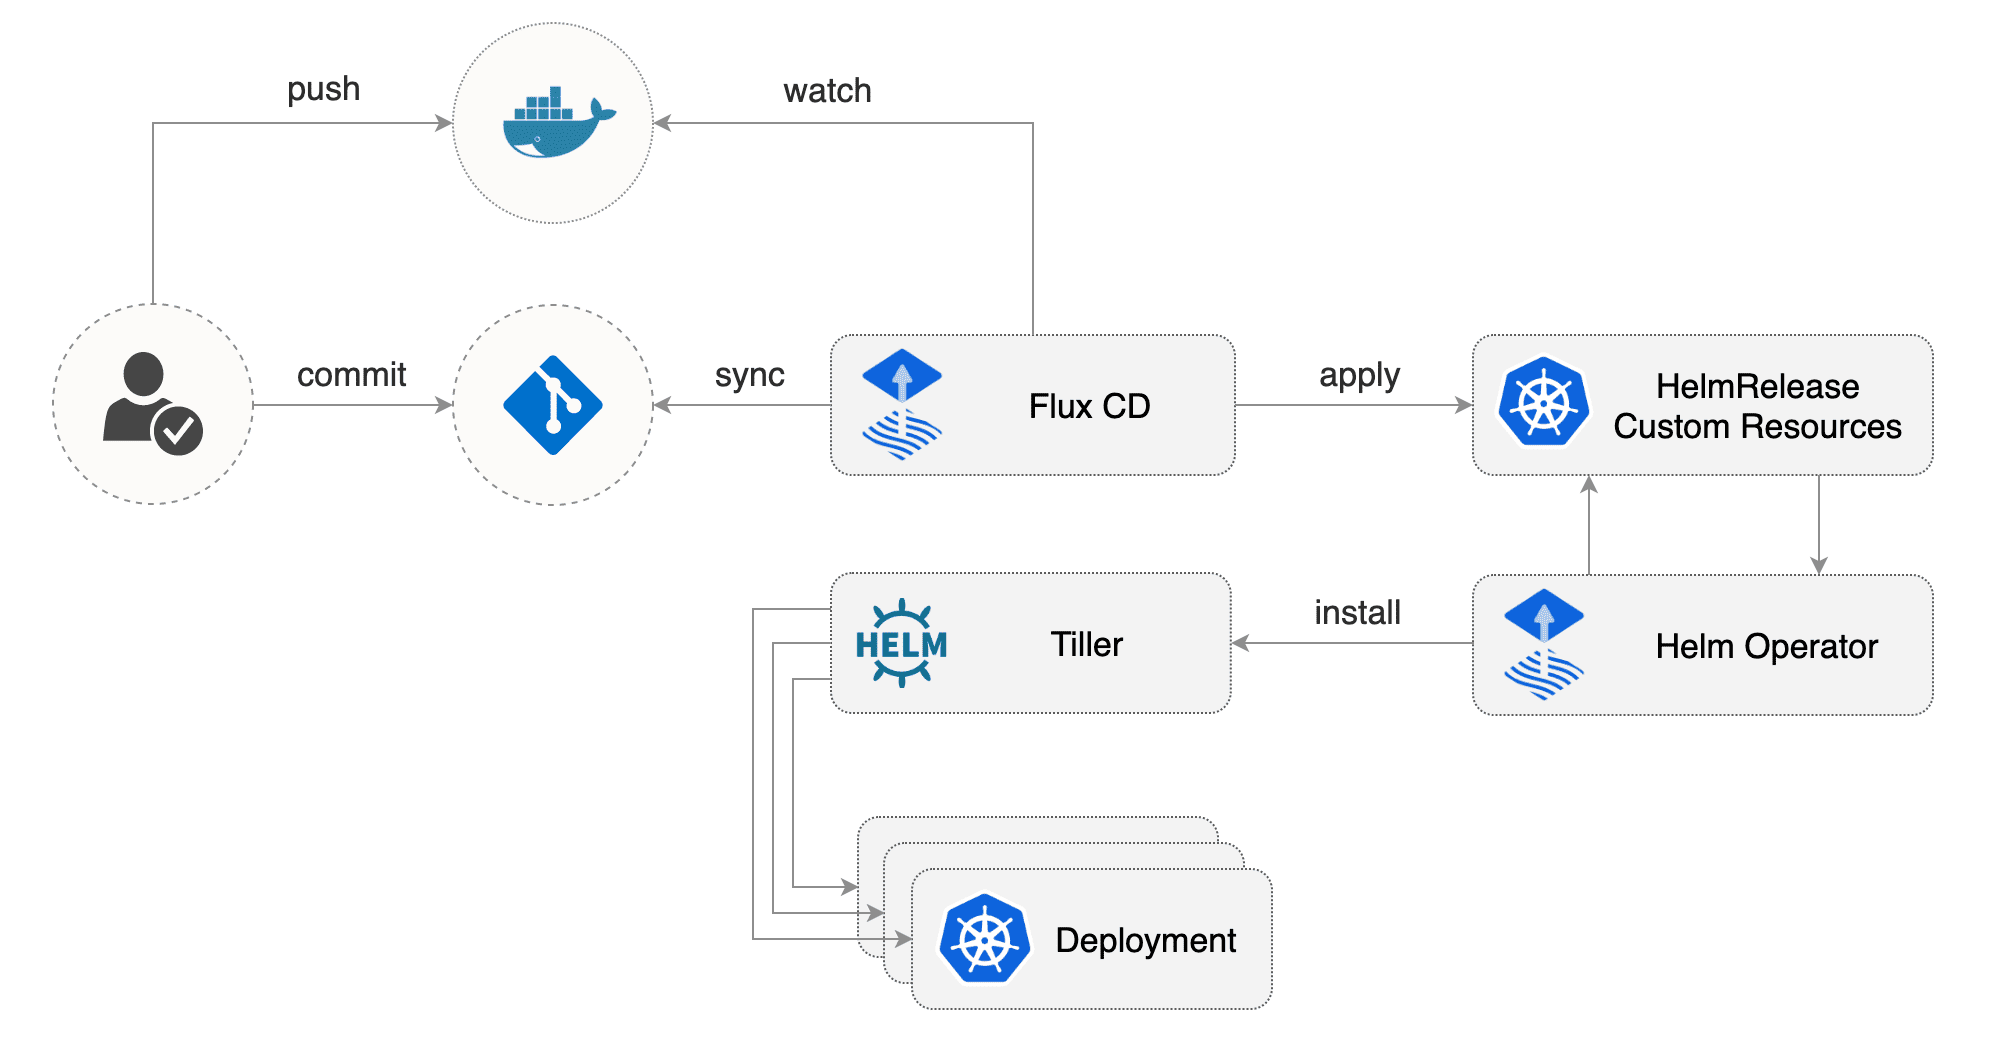
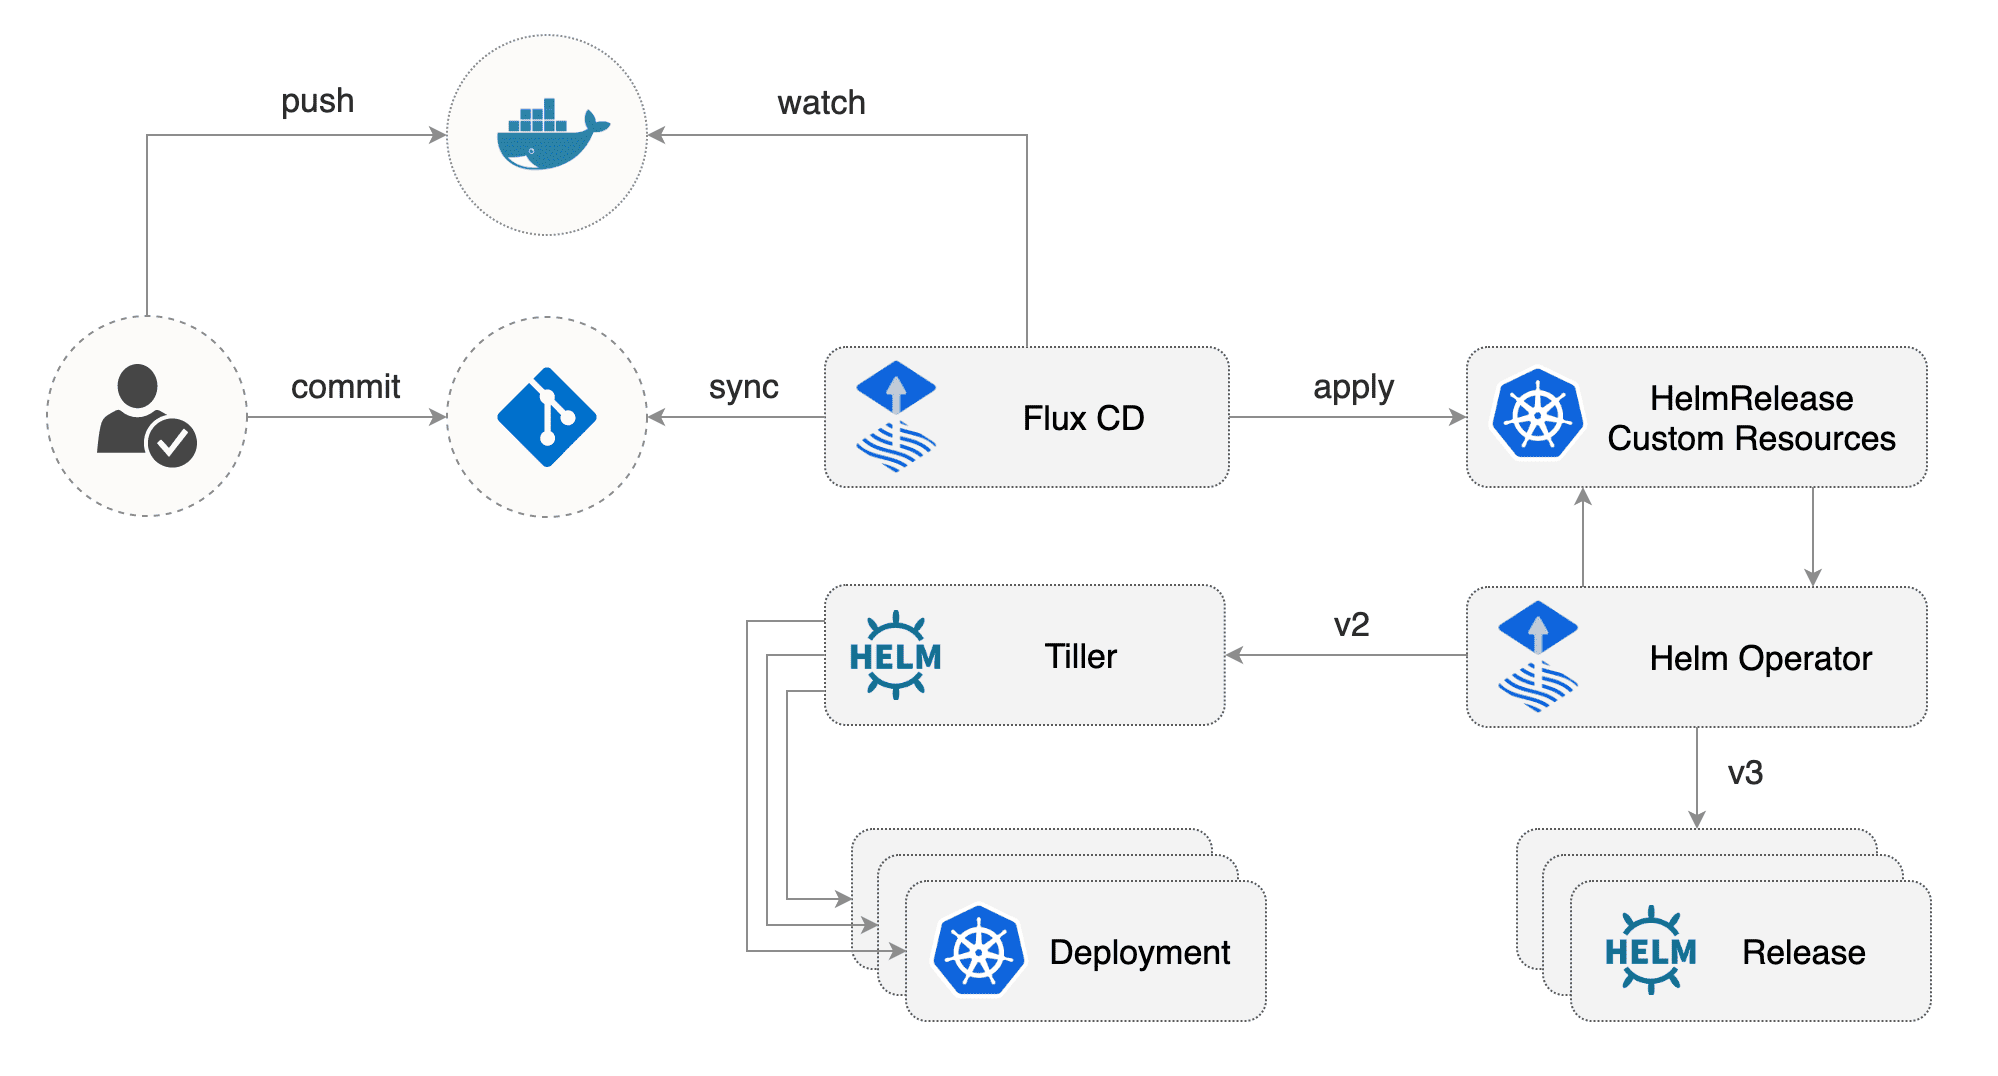
Update docs for Helm v3 and helm.fluxcd.io/v1

diff --git a/README.md b/README.md
@@ -28,64 +28,70 @@ I will be using GitHub to host the config repo, Docker Hub as the container regi
 
 ![gitops](https://github.com/fluxcd/helm-operator-get-started/blob/master/diagrams/flux-helm-operator-registry.png)
 
-### Install Helm and Tiller
+### Prerequisites
 
-If you don't have Helm CLI installed, on macOS you can use `brew install kubernetes-helm`.
+You'll need a Kubernetes cluster v1.11 or newer with load balancer support, a GitHub account, git and kubectl installed locally.
 
-Create a service account and a cluster role binding for Tiller:
+Install Helm v3 and fluxctl for macOS with Homebrew:
 
-```bash
-kubectl -n kube-system create sa tiller
-
-kubectl create clusterrolebinding tiller-cluster-rule \
-    --clusterrole=cluster-admin \
-    --serviceaccount=kube-system:tiller
+```sh
+brew install helm fluxctl
 ```
 
-Note that on GKE you need to create an admin cluster user for yourself:
+On Windows you can use Chocolatey:
 
-```bash
-kubectl create clusterrolebinding "cluster-admin-$(whoami)" \
-    --clusterrole=cluster-admin \
-    --user="$(gcloud config get-value core/account)"
-```
-
-Deploy Tiller in kube-system namespace:
-
-```bash
-helm init --skip-refresh --upgrade --service-account tiller
+```sh
+choco install kubernetes-helm fluxctl
 ```
 
 ### Install Flux
 
 The first step in automating Helm releases with [Flux](https://github.com/fluxcd/flux) is to create a Git repository with your charts source code.
-You can fork this repository and use it as a template for your cluster config.
+
+On GitHub, fork this repository and clone it locally
+(replace `fluxcd` with your GitHub username): 
+
+```sh
+git clone https://github.com/fluxcd/helm-operator-get-started
+cd helm-operator-get-started
+```
 
 *If you fork, update the release definitions with your Docker Hub repository and GitHub username located in
 \releases\(dev/stg/prod)\podinfo.yaml in your master branch before proceeding.
 
-Apply the Helm Release CRD:
-
-```bash
-kubectl apply -f https://raw.githubusercontent.com/fluxcd/flux/helm-0.10.1/deploy-helm/flux-helm-release-crd.yaml
-```
-
-Add the Flux chart repo:
+Add FluxCD repository to Helm repos:
 
 ```bash
 helm repo add fluxcd https://charts.fluxcd.io
 ```
 
-Install Flux and its Helm Operator by specifying your fork URL
-(replace `fluxcd` with your GitHub username):
+Create the `fluxcd` namespace:
+
+```sh
+kubectl create ns fluxcd
+```
+
+Install Flux by specifying your fork URL (replace `fluxcd` with your GitHub username): 
 
 ```bash
-helm install --name flux \
---set rbac.create=true \
---set helmOperator.create=true \
---set git.url=git@github.com:fluxcd/helm-operator-get-started \
---namespace flux \
-fluxcd/flux
+helm upgrade -i flux fluxcd/flux --wait \
+--namespace fluxcd \
+--set git.url=git@github.com:fluxcd/helm-operator-get-started
+```
+
+Install the `HelmRelease` Kubernetes custom resource definition:
+
+```sh
+kubectl apply -f https://raw.githubusercontent.com/fluxcd/helm-operator/master/deploy/flux-helm-release-crd.yaml
+```
+
+Install Flux Helm Operator with ***Helm v3*** support:
+
+```bash
+helm upgrade -i helm-operator fluxcd/helm-operator --wait \
+--namespace fluxcd \
+--set git.ssh.secretName=flux-git-deploy \
+--set helm.versions=v3
 ```
 
 The Flux Helm operator provides an extension to Flux that automates Helm Chart releases for it.
@@ -93,13 +99,12 @@ A Chart release is described through a Kubernetes custom resource named HelmRele
 The Flux daemon synchronizes these resources from git to the cluster,
 and the Flux Helm operator makes sure Helm charts are released as specified in the resources.
 
-Note that Flux Helm Operator works with Kubernetes 1.9 or newer.
+Note that Flux Helm Operator works with Kubernetes 1.11 or newer.
 
-At startup Flux generates a SSH key and logs the public key.
-Find the SSH public key with:
+At startup, Flux generates a SSH key and logs the public key. Find the public key with:
 
 ```bash
-kubectl -n flux logs deployment/flux | grep identity.pub | cut -d '"' -f2
+fluxctl identity --k8s-fwd-ns fluxcd
 ```
 
 In order to sync your cluster state with Git you need to copy the public key and
@@ -174,14 +179,14 @@ Using this chart I want to create a release in the `dev` namespace with the imag
 Instead of editing the `values.yaml` from the chart source, I create a `HelmRelease` definition (located in /releases/dev/podinfo.yaml):
 
 ```yaml
-apiVersion: flux.weave.works/v1beta1
+apiVersion: helm.fluxcd.io/v1
 kind: HelmRelease
 metadata:
   name: podinfo-dev
   namespace: dev
   annotations:
-    flux.weave.works/automated: "true"
-    flux.weave.works/tag.chart-image: glob:dev-*
+    fluxcd.io/automated: "true"
+    filter.fluxcd.io/chart-image: glob:dev-*
 spec:
   releaseName: podinfo-dev
   chart:
@@ -203,7 +208,7 @@ Flux Helm release fields:
 
 The options specified in the HelmRelease `spec.values` will override the ones in `values.yaml` from the chart source.
 
-With the `flux.weave.works` annotations I instruct Flux to automate this release.
+With the `fluxcd.io/automated` annotations I instruct Flux to automate this release.
 When a new tag with the prefix `dev` is pushed to Docker Hub, Flux will update the image field in the yaml file,
 will commit and push the change to Git and finally will apply the change on the cluster.
 
@@ -213,11 +218,11 @@ When the `podinfo-dev` HelmRelease object changes inside the cluster,
 Kubernetes API will notify the Flux Helm Operator and the operator will perform a Helm release upgrade.
 
 ```
-$ helm history podinfo-dev
+$ helm -n dev history podinfo-dev
 
-REVISION	UPDATED                 	STATUS    	CHART        	DESCRIPTION
-1       	Fri Jul 20 16:51:52 2018	SUPERSEDED	podinfo-0.2.0	Install complete
-2       	Fri Jul 20 22:18:46 2018	DEPLOYED  	podinfo-0.2.0	Upgrade complete
+REVISION	STATUS    	CHART        	DESCRIPTION
+1       	superseded	podinfo-0.2.0	Install complete
+2       	deployed  	podinfo-0.2.0	Upgrade complete
 ```
 
 The Flux Helm Operator reacts to changes in the HelmRelease collection but will also detect changes in the charts source files.
@@ -226,12 +231,12 @@ If I make a change to the podinfo chart, the operator will pick that up and run 
 ![gitops-chart-change](https://github.com/stefanprodan/openfaas-flux/blob/master/docs/screens/flux-helm-chart-update.png)
 
 ```
-$ helm history podinfo-dev
+$ helm -n dev history podinfo-dev
 
-REVISION	UPDATED                 	STATUS    	CHART        	DESCRIPTION
-1       	Fri Jul 20 16:51:52 2018	SUPERSEDED	podinfo-0.2.0	Install complete
-2       	Fri Jul 20 22:18:46 2018	SUPERSEDED	podinfo-0.2.0	Upgrade complete
-3       	Fri Jul 20 22:39:39 2018	DEPLOYED  	podinfo-0.2.1	Upgrade complete
+REVISION	STATUS    	CHART        	DESCRIPTION
+1       	superseded	podinfo-0.2.0	Install complete
+2       	superseded	podinfo-0.2.0	Upgrade complete
+3       	deployed  	podinfo-0.2.1	Upgrade complete
 ```
 
 Now let's assume that I want to promote the code from the `dev` branch into a more stable environment for others to test it.
@@ -250,14 +255,14 @@ Assuming the staging environment has some sort of automated load testing in plac
 I want to have a different configuration than dev:
 
 ```yaml
-apiVersion: flux.weave.works/v1beta1
+apiVersion: helm.fluxcd.io/v1
 kind: HelmRelease
 metadata:
   name: podinfo-rc
   namespace: stg
   annotations:
-    flux.weave.works/automated: "true"
-    flux.weave.works/tag.chart-image: glob:stg-*
+    fluxcd.io/automated: "true"
+    filter.fluxcd.io/chart-image: glob:stg-*
 spec:
   releaseName: podinfo-rc
   chart:
@@ -303,14 +308,14 @@ Successfully tagged stefanprodan/podinfo:0.4.10
 If I want to automate the production deployment based on version tags, I would use `semver` filters instead of `glob`:
 
 ```yaml
-apiVersion: flux.weave.works/v1beta1
+apiVersion: helm.fluxcd.io/v1
 kind: HelmRelease
 metadata:
   name: podinfo-prod
   namespace: prod
   annotations:
-    flux.weave.works/automated: "true"
-    flux.weave.works/tag.chart-image: semver:~0.4
+    fluxcd.io/automated: "true"
+    filter.fluxcd.io/chart-image: semver:~0.4
 spec:
   releaseName: podinfo-prod
   chart:
@@ -426,55 +431,6 @@ To restore from backup after a disaster, replace the newly-created secret and re
 kubectl replace secret -n adm sealed-secrets-key -f sealed-secrets-key.yaml
 kubectl delete pod -n adm -l app=sealed-secrets
 ```
-
-### Flux Helm Integration FAQ
-
-**My Helm charts have more than one container image. How can I automate the image tag update for all my containers?**
-
-A container image list can have the following format:
-
-```yaml
-container_name_1:
-  image: repo/app1:tag
-container_name_2:
-  image: quay.io/repo/app2:tag
-```
-
-Here is an example with different deployment automation policies:
-
-```yaml
-apiVersion: flux.weave.works/v1beta1
-kind: HelmRelease
-metadata:
-  name: openfaas
-  namespace: openfaas
-  annotations:
-    flux.weave.works/automated: "true"
-    flux.weave.works/tag.prometheus: semver:~2.3
-    flux.weave.works/tag.alertmanager: glob:v0.15.*
-    flux.weave.works/tag.nats: regexp:^0.6.*
-spec:
-  releaseName: openfaas
-  chart:
-    repository: https://openfaas.github.io/faas-netes/
-    name: openfaas
-    version: 1.3.3
-  values:
-    prometheus:
-      image: prom/prometheus:v2.3.1
-    alertmanager:
-      image: prom/alertmanager:v0.15.0
-    nats:
-      image: nats-streaming:0.6.0
-```
-
-**I'm using SSL between Helm and Tiller. How can I configure Flux to use the certificate?**
-
-When installing Flux, you can supply the CA and client-side certificate using the `helmOperator.tls` options, more details [here](https://github.com/fluxcd/flux/blob/master/chart/flux/README.md#installing-weave-flux-helm-operator-and-helm-with-tls-enabled).
-
-**I have a dedicated Kubernetes cluster per environment and I want to use the same Git repo for all. How can I do that?**
-
-For each cluster create a Git branch in your config repo. When installing Flux set the Git branch using `--set git.branch=cluster-name`.
 
 ### <a name="help"></a>Getting Help
 
